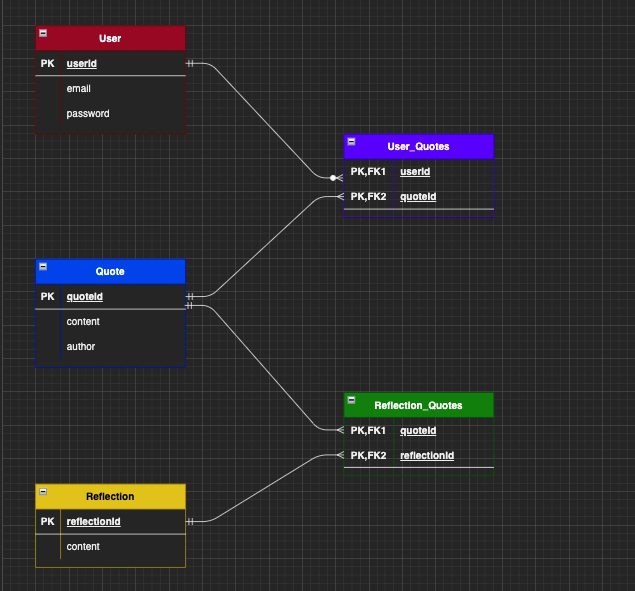
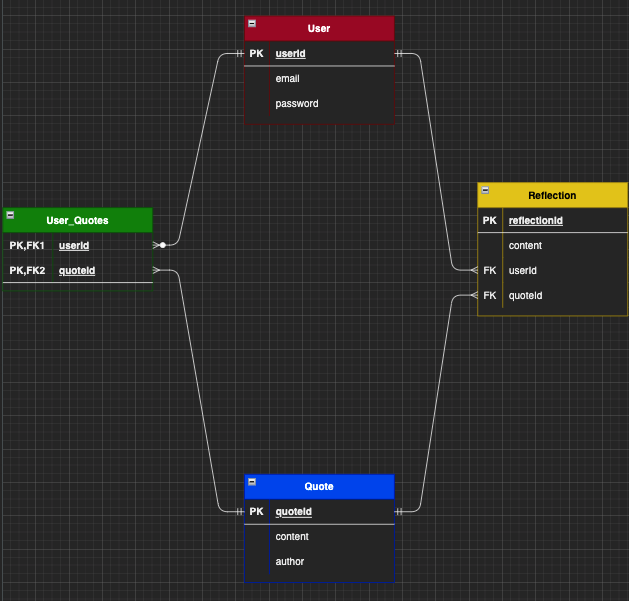
updates ERD

diff --git a/controllers/reflect.js b/controllers/reflect.js
@@ -4,7 +4,12 @@ const db = require('../models')
 
 router.get('/', async (req,res)=> {
     try{
-        const savedQuotes = await db.quote.findAll()
+        const user = await db.user.findOne({
+            where: {
+                email: res.locals.user.email
+            }
+        })
+        const savedQuotes = await user.getQuotes()
         console.log(savedQuotes)
         res.render('reflect/show.ejs', {quotes: savedQuotes})
     }catch(err) {
